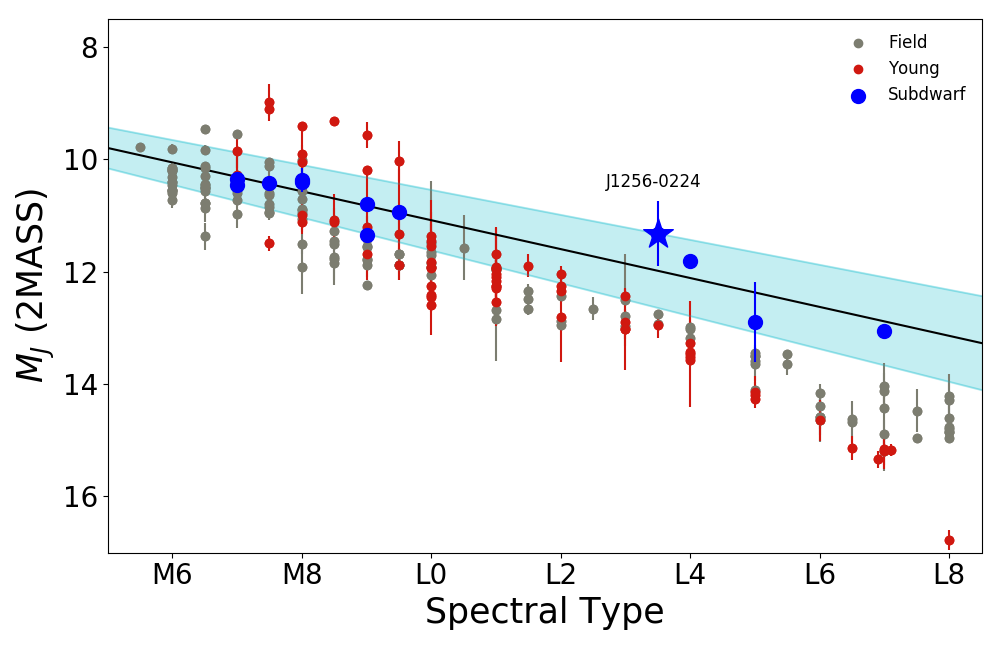
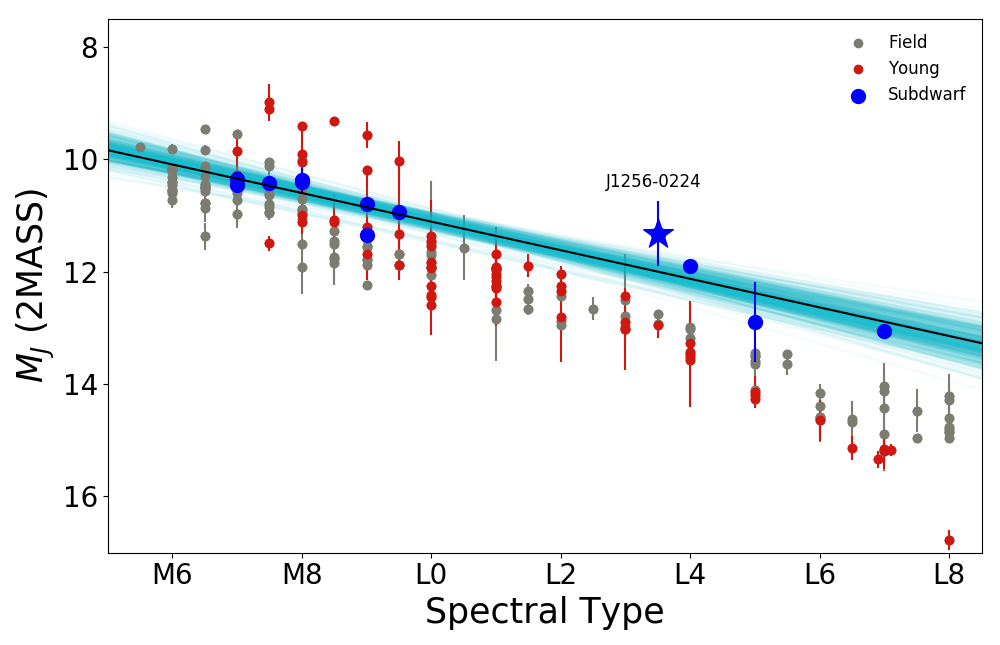
Added MCMC for fits

Changed region(s): [[0.093, 0.186, 0.992, 0.6202]]

diff --git a/AbsmagJvsSpt.py b/AbsmagJvsSpt.py
@@ -1,8 +1,15 @@
 import pandas as pd
 import matplotlib.pyplot as plt
 import numpy as np
+import emcee
+import pdb  # Use pdb.set_trace() to put a stop in the code like idl
+import corner
 
-df_sub = pd.read_csv('Data/Subdwarf_Spt_v_Teff.txt', sep=" ", comment='#', header=None,
+# Set as stop for debugging
+stop = pdb.set_trace  # stop() to run
+
+# -------- Read in the data --------
+df_sub = pd.read_csv('Data/Subdwarf_Spt_v_Teff.txt', sep="\s+", comment='#', header=None,
                      names=["name", "SpT", "Teff", 'Teff_err', 'lbol', 'lbol_err', 'mass', 'mass_unc', 'MJ', 'MJ_unc',
                             'MH', 'MH_unc', 'MK', 'MK_unc', 'MW1', 'MW1_unc', 'MW2', 'MW2_unc'])
 
@@ -43,6 +50,89 @@ df_young['AbsJ'] = AbsJy
 df_young['AbsJ_err'] = AbsJy_err
 
 # -------------------------------------------------------------------------------------
+# ------------------------- Polynomial fits  -----------------------------------------
+# -------------------------------------------------------------------------------------
+# --- Get uncertainites for upper and lower teff limits ----
+df_sub['AbsJ_up'] = df_sub['MJ'] + df_sub['MJ_unc']
+df_sub['AbsJ_d'] = df_sub['MJ'] - df_sub['MJ_unc']
+
+# ------ Fit the values --------
+coeffs = np.polyfit(df_sub['SpT'], df_sub['MJ'], 1)
+line = np.poly1d(coeffs)
+
+coeffs_up = np.polyfit(df_sub['SpT'], df_sub['AbsJ_up'], 1)
+line_up = np.poly1d(coeffs_up)
+
+coeffs_d = np.polyfit(df_sub['SpT'], df_sub['AbsJ_d'], 1)
+line_d = np.poly1d(coeffs_d)
+
+# ---- print values to screen -------
+print coeffs
+print coeffs_up
+print coeffs_d
+
+# ---- Plot the fit lines -----
+xp = np.linspace(5, 30, 100)
+
+# define the uncertainty range based on the values from the calcuated uncertainties on the coeffs. (See my table)
+# fit = 0.257*xp + 8.517
+# up = 0.292*xp + 8.705
+# down = 0.222*xp + 8.329
+#
+# plt.plot(xp, fit, color='k')
+# plt.plot(xp, up, color='#17becf', alpha=.25)
+# plt.plot(xp, down, color='#17becf', alpha=.25)
+# ax1.fill_between(xp, up, down, alpha=.25, color='#17becf')
+
+# -------------------------------------------------------------------------------------
+# ------------------------------ Use emcee to fit instead -----------------------------
+# -------------------------------------------------------------------------------------
+
+# Define the likelihood function: a line y=mx+b
+
+
+def lnprob(x, MJ, MJ_unc, spt):
+    if x[2] < 0:
+        return -np.inf
+    model_line = x[0]*spt + x[1]
+    sigma_dm = (MJ - model_line)/np.sqrt(MJ_unc**2+x[2]**2)  # Distance between the data points and the model line
+    return -(1./2.)*sum(np.log(x[2]**2+MJ_unc**2))-(1./2.)*sum(sigma_dm**2)-np.log(x[2])  # np.log(x[2]) is an uninformative prior on the intrinsic dispersion
+                                                    # It favors large numbers less
+
+# Define the parameters we need to imput into the mcmc
+ndim = 3  # Number of parameters in my lnprob after the x
+nwalkers = 12
+nsteps = 1000  # this is a standard starting point of 1000
+
+parm_est = [0.259, 8.450, 0]  # This is my estimate on the slope and y-intercept from my polyfits
+parm_scale = [0.026, 0.85, 0.85]  # the scatter about my estimated start points 10% for teff, 500 Degrees for K
+parm_scale_2d = np.array(parm_scale).reshape(1, ndim).repeat(nwalkers, axis=0)  # Create a 2D array of values with
+parm_est_2d = np.array(parm_est).reshape(1, ndim).repeat(nwalkers, axis=0)      # nwalkers rows
+pos = parm_est_2d + np.random.rand(nwalkers, ndim)*parm_scale_2d
+
+
+# Start the mcmc add .values to the pandas dataframe to convert to numpy array
+# Use the df_subpoly array that has removed the nans before can rum the mcmc
+sampler = emcee.EnsembleSampler(nwalkers, ndim, lnprob, args=(df_sub['MJ'].values,
+                                                              df_sub['MJ_unc'].values,df_sub['SpT'].values))
+sampler.run_mcmc(pos, nsteps)
+
+# Check what the burn in is so it can be thrown out
+labels = ["slope", "intercept", 'dispersion']
+for k in range(ndim):
+    plt.figure()
+    for n in range(nwalkers):
+        plt.plot(sampler.chain[n,:,k])
+    plt.ylabel(labels[k], fontsize='16')
+    plt.xlabel("step number", fontsize='12')
+
+# Burn in was around 50 steps, so drop 200 to be safe them from the chain
+samples = sampler.chain[:, 200:, :].reshape((-1, ndim))
+
+# Check the corner plot of the chain
+figcheck = corner.corner(samples, labels=["$m$", "$b$",'dispersion'])
+
+# -------------------------------------------------------------------------------------
 # ------------------------- Make Plot: Spt v Abs Mags ---------------------------------
 # -------------------------------------------------------------------------------------
 # ------ Set up figure layout --------
@@ -73,40 +163,20 @@ ax1.annotate('J1256-0224', xy=(12.7, 10.5), color='k', fontsize=12)
 
 # ---- Add Legend ----
 plt.legend([fld, young, sub], ["Field", "Young", 'Subdwarf'], frameon=False, fontsize=12)
-# -------------------------------------------------------------------------------------
-# ------------------------- Polynomial fits  -----------------------------------------
-# -------------------------------------------------------------------------------------
-# --- Get uncertainites for upper and lower teff limits ----
-df_sub['AbsJ_up'] = df_sub['MJ'] + df_sub['MJ_unc']
-df_sub['AbsJ_d'] = df_sub['MJ'] - df_sub['MJ_unc']
 
-# ------ Fit the values --------
-coeffs = np.polyfit(df_sub['SpT'], df_sub['MJ'], 1)
-line = np.poly1d(coeffs)
+# ---- Plot fit lines  from the mcmc, random 100 -----
+xl = np.array([0, 20])
+for x in samples[np.random.randint(len(samples), size=500)]:
+    plt.plot(xl, x[0]*xl+x[1], color="#17becf", alpha=0.05)
 
-coeffs_up = np.polyfit(df_sub['SpT'], df_sub['AbsJ_up'], 1)
-line_up = np.poly1d(coeffs_up)
+# To get the best fit line
+best_fit_coeffs = np.median(samples, axis=0)
+best_fit_line = best_fit_coeffs[0]*xl + best_fit_coeffs[1]
+plt.plot(xl, best_fit_line, c='k', zorder=8)
 
-coeffs_d = np.polyfit(df_sub['SpT'], df_sub['AbsJ_d'], 1)
-line_d = np.poly1d(coeffs_d)
-
-# ---- print values to screen -------
-print coeffs
-print coeffs_up
-print coeffs_d
-
-# ---- Plot the fit lines -----
-xp = np.linspace(5, 30, 100)
-
-# define the uncertainty range based on the values from the calcuated uncertainties on the coeffs. (See my table)
-fit = 0.257*xp + 8.517
-up = 0.292*xp + 8.705
-down = 0.222*xp + 8.329
-
-plt.plot(xp, fit, color='k')
-plt.plot(xp, up, color='#17becf', alpha=.25)
-plt.plot(xp, down, color='#17becf', alpha=.25)
-ax1.fill_between(xp, up, down, alpha=.25, color='#17becf')
+# ---- Print the best fit coeffs and the std -----
+print(best_fit_coeffs)
+print(np.std(samples, axis=0))
 
 plt.tight_layout()
 plt.savefig('Plots/MJvspt.png')
